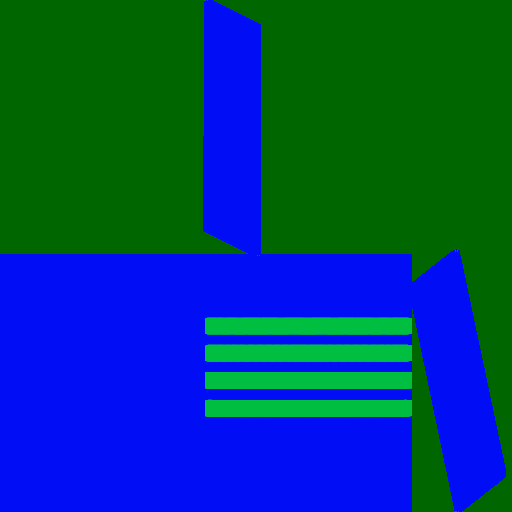
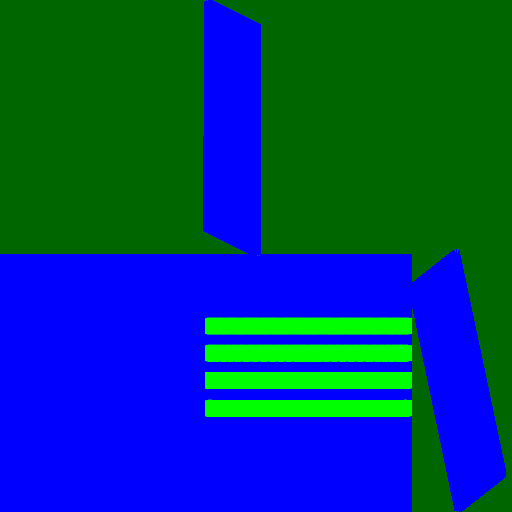
Improve map lighting and PBR properties & textures

Changed region(s): [[0.375, 0.5938, 0.8125, 0.8125]]

diff --git a/core/gridmap/src/items/bridge_floor.rs b/core/gridmap/src/items/bridge_floor.rs
@@ -33,8 +33,8 @@ pub(crate) fn init_bridge_floor_material(
         base_color_texture: Some(albedo_texture_handle.clone()),
         metallic_roughness_texture: Some(metallic_roughness_texture_handle.clone()),
 
-        perceptual_roughness: 0.2,
-        metallic: 0.91,
+        perceptual_roughness: 0.6,
+        metallic: 0.95,
         ..Default::default()
     });
     res.filled_handle = material_handle;
@@ -48,8 +48,8 @@ pub(crate) fn init_bridge_floor_material(
         base_color_texture: Some(albedo_texture_handle.clone()),
         metallic_roughness_texture: Some(metallic_roughness_texture_handle.clone()),
 
-        perceptual_roughness: 0.2,
-        metallic: 0.91,
+        perceptual_roughness: 0.6,
+        metallic: 0.95,
         ..Default::default()
     });
     res.half_handle = material_handle;
@@ -62,8 +62,8 @@ pub(crate) fn init_bridge_floor_material(
         base_color_texture: Some(albedo_texture_handle.clone()),
         metallic_roughness_texture: Some(metallic_roughness_texture_handle.clone()),
 
-        perceptual_roughness: 0.2,
-        metallic: 0.91,
+        perceptual_roughness: 0.6,
+        metallic: 0.95,
         ..Default::default()
     });
     res.corner_handle = material_handle;
@@ -75,8 +75,8 @@ pub(crate) fn init_bridge_floor_material(
     let material_handle = materials.add(StandardMaterial {
         base_color_texture: Some(albedo_texture_handle.clone()),
         metallic_roughness_texture: Some(metallic_roughness_texture_handle.clone()),
-        perceptual_roughness: 0.2,
-        metallic: 0.91,
+        perceptual_roughness: 0.6,
+        metallic: 0.95,
         ..Default::default()
     });
     res.corner2_handle = material_handle;

diff --git a/core/gridmap/src/items/bridge_diagonal_ceiling.rs b/core/gridmap/src/items/bridge_diagonal_ceiling.rs
@@ -33,8 +33,8 @@ pub(crate) fn init_bridge_half_diagonal_ceiling_material(
     let material_handle = materials.add(StandardMaterial {
         base_color_texture: Some(albedo_texture_handle.clone()),
         metallic_roughness_texture: Some(metallic_roughness_texture_handle.clone()),
-        perceptual_roughness: 0.2,
-        metallic: 0.91,
+        perceptual_roughness: 0.6,
+        metallic: 0.95,
         ..Default::default()
     });
     res.high_material_handle = material_handle;
@@ -47,8 +47,8 @@ pub(crate) fn init_bridge_half_diagonal_ceiling_material(
     let material_handle = materials.add(StandardMaterial {
         base_color_texture: Some(albedo_texture_handle.clone()),
         metallic_roughness_texture: Some(metallic_roughness_texture_handle.clone()),
-        perceptual_roughness: 0.2,
-        metallic: 0.91,
+        perceptual_roughness: 0.6,
+        metallic: 0.95,
         ..Default::default()
     });
     res.low_material_handle = material_handle;

diff --git a/core/gridmap/src/items/generic_half_diagonal_ceiling.rs b/core/gridmap/src/items/generic_half_diagonal_ceiling.rs
@@ -33,8 +33,8 @@ pub(crate) fn init_generic_half_diagonal_ceiling_material(
     let material_handle = materials.add(StandardMaterial {
         base_color_texture: Some(albedo_texture_handle.clone()),
         metallic_roughness_texture: Some(metallic_roughness_texture_handle.clone()),
-        perceptual_roughness: 0.2,
-        metallic: 0.91,
+        perceptual_roughness: 0.6,
+        metallic: 0.95,
 
         ..Default::default()
     });
@@ -48,8 +48,8 @@ pub(crate) fn init_generic_half_diagonal_ceiling_material(
     let material_handle = materials.add(StandardMaterial {
         base_color_texture: Some(albedo_texture_handle.clone()),
         metallic_roughness_texture: Some(metallic_roughness_texture_handle.clone()),
-        perceptual_roughness: 0.2,
-        metallic: 0.91,
+        perceptual_roughness: 0.6,
+        metallic: 0.95,
 
         ..Default::default()
     });

diff --git a/core/gridmap/src/items/generic_half_diagonal_floor.rs b/core/gridmap/src/items/generic_half_diagonal_floor.rs
@@ -33,8 +33,8 @@ pub(crate) fn init_generic_half_diagonal_floor_material(
     let material_handle = materials.add(StandardMaterial {
         base_color_texture: Some(albedo_texture_handle.clone()),
         metallic_roughness_texture: Some(metallic_roughness_texture_handle.clone()),
-        perceptual_roughness: 0.2,
-        metallic: 0.91,
+        perceptual_roughness: 0.6,
+        metallic: 0.95,
 
         ..Default::default()
     });
@@ -48,8 +48,8 @@ pub(crate) fn init_generic_half_diagonal_floor_material(
     let material_handle = materials.add(StandardMaterial {
         base_color_texture: Some(albedo_texture_handle.clone()),
         metallic_roughness_texture: Some(metallic_roughness_texture_handle.clone()),
-        perceptual_roughness: 0.2,
-        metallic: 0.91,
+        perceptual_roughness: 0.6,
+        metallic: 0.95,
 
         ..Default::default()
     });

diff --git a/core/gridmap/src/items/generic_assets.rs b/core/gridmap/src/items/generic_assets.rs
@@ -30,8 +30,8 @@ pub(crate) fn init_generic_meshes(
 
     let mat = materials.add(StandardMaterial {
         base_color: Color::rgba(0., 1., 0., 0.5),
-        perceptual_roughness: 0.2,
-        metallic: 0.91,
+        perceptual_roughness: 0.6,
+        metallic: 0.95,
         alpha_mode: AlphaMode::Blend,
         ..Default::default()
     });
@@ -50,7 +50,7 @@ pub(crate) fn init_default_materials(
 ) {
     let m = materials.add(StandardMaterial {
         base_color: Color::WHITE,
-        perceptual_roughness: 0.2,
+        perceptual_roughness: 0.6,
         metallic: 0.7,
         ..Default::default()
     });

diff --git a/core/gridmap/src/items/generic_wall.rs b/core/gridmap/src/items/generic_wall.rs
@@ -35,8 +35,8 @@ pub(crate) fn init_generic_wall_material(
     let material_handle = materials.add(StandardMaterial {
         base_color_texture: Some(albedo_texture_handle.clone()),
         metallic_roughness_texture: Some(metallic_roughness_texture_handle.clone()),
-        perceptual_roughness: 0.2,
-        metallic: 0.91,
+        perceptual_roughness: 0.6,
+        metallic: 0.95,
         ..Default::default()
     });
     res.material_handle = material_handle;

diff --git a/core/gridmap/src/items/bridge_wall.rs b/core/gridmap/src/items/bridge_wall.rs
@@ -34,8 +34,8 @@ pub(crate) fn init_bridge_wall_material(
     let material_handle = materials.add(StandardMaterial {
         base_color_texture: Some(albedo_texture_handle.clone()),
         metallic_roughness_texture: Some(metallic_roughness_texture_handle.clone()),
-        perceptual_roughness: 0.2,
-        metallic: 0.91,
+        perceptual_roughness: 0.6,
+        metallic: 0.95,
         ..Default::default()
     });
     res.material_handle = material_handle;

diff --git a/core/gridmap/src/items/reinforced_glass_half_diagonal.rs b/core/gridmap/src/items/reinforced_glass_half_diagonal.rs
@@ -47,8 +47,8 @@ pub(crate) fn init_reinforced_glass_half_diagonal_ceiling_material(
         base_color_texture: Some(albedo_texture_handle.clone()),
         metallic_roughness_texture: Some(metallic_roughness_texture_handle.clone()),
         alpha_mode: AlphaMode::Blend,
-        perceptual_roughness: 0.2,
-        metallic: 0.91,
+        perceptual_roughness: 0.6,
+        metallic: 0.95,
 
         ..Default::default()
     });

diff --git a/core/gridmap/src/items/generic_floor.rs b/core/gridmap/src/items/generic_floor.rs
@@ -30,8 +30,8 @@ pub(crate) fn init_generic_floor_material(
     let material_handle = materials.add(StandardMaterial {
         base_color_texture: Some(albedo_texture_handle.clone()),
         metallic_roughness_texture: Some(metallic_roughness_texture_handle.clone()),
-        perceptual_roughness: 0.2,
-        metallic: 0.91,
+        perceptual_roughness: 0.6,
+        metallic: 0.95,
 
         ..Default::default()
     });

diff --git a/core/gridmap/src/items/reinforced_glass_floor.rs b/core/gridmap/src/items/reinforced_glass_floor.rs
@@ -31,8 +31,8 @@ pub(crate) fn init_reinforced_glass_floor_material(
         base_color_texture: Some(albedo_texture_handle.clone()),
         metallic_roughness_texture: Some(metallic_roughness_texture_handle.clone()),
         alpha_mode: AlphaMode::Blend,
-        perceptual_roughness: 0.2,
-        metallic: 0.91,
+        perceptual_roughness: 0.6,
+        metallic: 0.95,
 
         ..Default::default()
     });

diff --git a/core/gridmap/src/items/reinforced_glass_wall.rs b/core/gridmap/src/items/reinforced_glass_wall.rs
@@ -29,8 +29,8 @@ pub(crate) fn init_reinforced_glass_wall_material(
         base_color_texture: Some(albedo_texture_handle.clone()),
         metallic_roughness_texture: Some(metallic_roughness_texture_handle.clone()),
         alpha_mode: AlphaMode::Blend,
-        perceptual_roughness: 0.2,
-        metallic: 0.91,
+        perceptual_roughness: 0.6,
+        metallic: 0.95,
 
         ..Default::default()
     });
